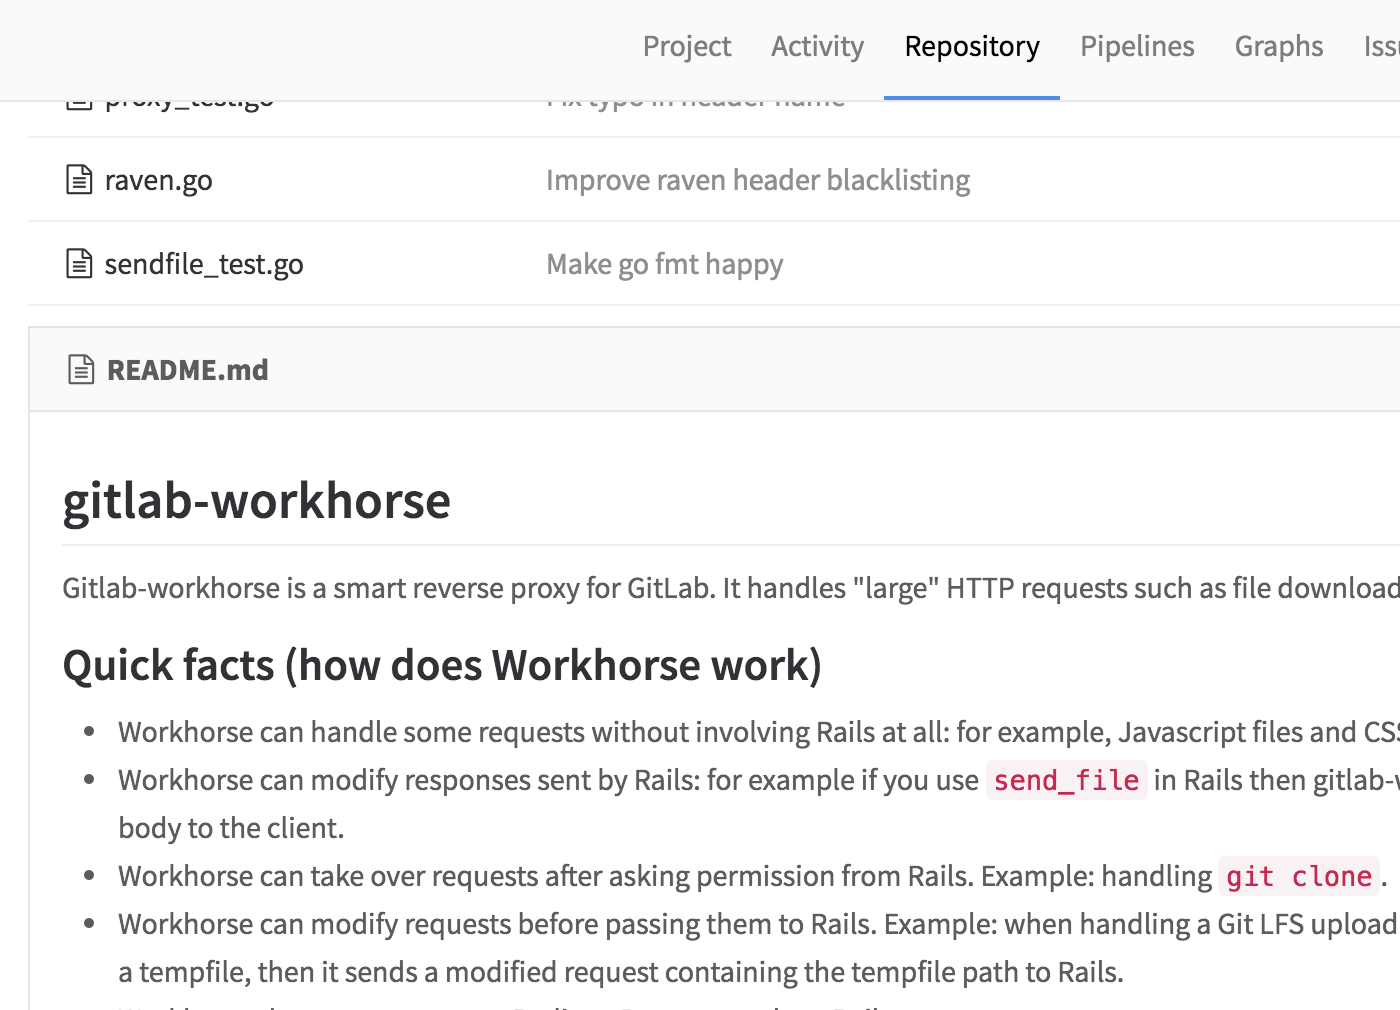
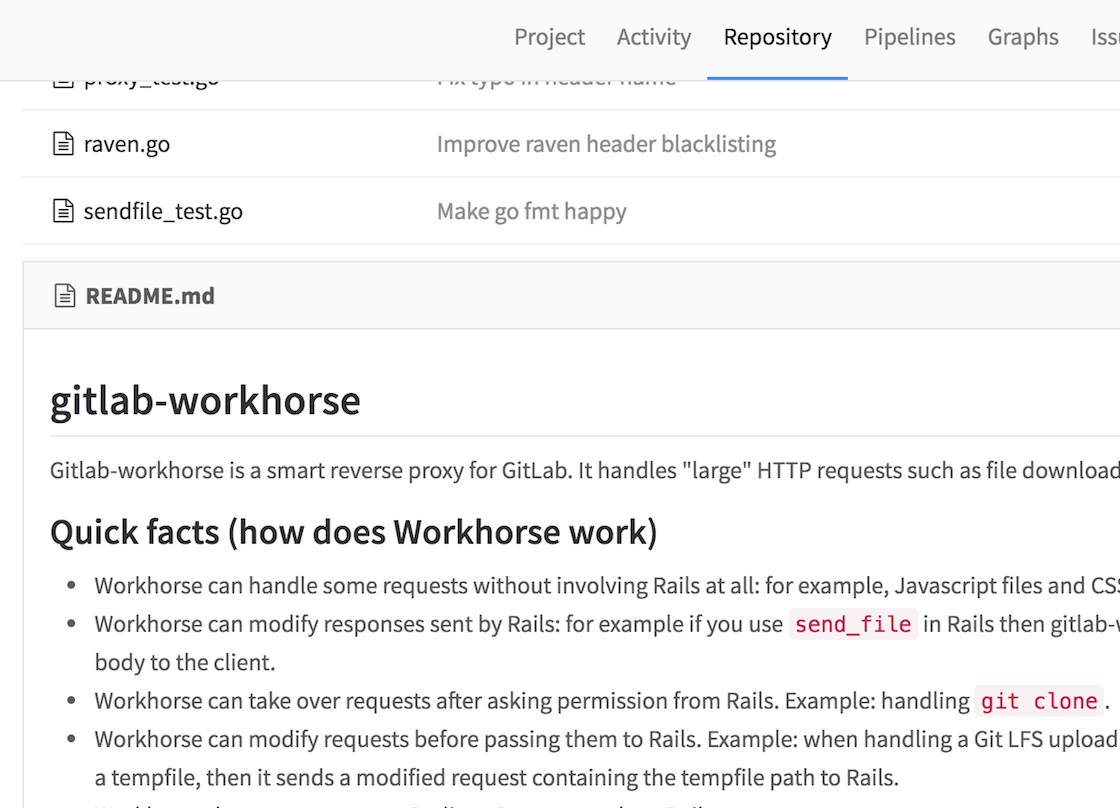
サイズ調整

diff --git a/gitlabstudy2/index.html b/gitlabstudy2/index.html
@@ -51,11 +51,10 @@
               <section data-markdown="slides/funcissue01.md"></section>
               <section data-markdown="slides/funcissue02.md"></section>
               <section data-markdown="slides/funcissue03.md"></section>
-              <section data-markdown="slides/funcissue04.md"></section>
 
               <section data-markdown="slides/funcgroup01.md"></section>
-              <section data-markdown="slides/funcgroup01.md"></section>
-              <section data-markdown="slides/funcgroup01.md"></section>
+              <section data-markdown="slides/funcgroup02.md"></section>
+              <section data-markdown="slides/funcgroup03.md"></section>
 
               <section data-markdown="slides/funcmark01.md"></section>
               <section data-markdown="slides/funcmark02.md"></section>

diff --git a/gitlabstudy2/slides/whatsgitlab06.md b/gitlabstudy2/slides/whatsgitlab06.md
@@ -2,9 +2,10 @@
 
 利用形態を選べます。
 
-- クラウド版 GitLab.com `無償`（有償サポートも有り）
-  - プライベートリポジトリ有り！ １プロジェクト10GBまで！
-- オンプレミス GitLab CE(Community Edition) OSS `無償`
-- オンプレミス GitLab EE(Enterprise Edition) 機能強化 `有償`
+- クラウド GitLab.com `無償`（有償サポート有）
+  - プライベートリポジトリ有り！
+  - １プロジェクト10GBまで！
+- オンプレ GitLab CE(Community Edition) OSS `無償`
+- オンプレ GitLab EE(Enterprise Edition) 機能強化 `有償`
 
 ### とにかく使ってみたい人はGitLab.comを利用してみてください

diff --git a/gitlabstudy2/slides/funcissue03.md b/gitlabstudy2/slides/funcissue03.md
@@ -1,4 +1,10 @@
 #### Issue Tracking System
-- 課題について議論することができる
 
-![Issue Tracking System Community](./resources/issuescomment.png)
+課題管理だけに使うのは勿体無い
+
+- ソフトウェアのバグレポート
+- 作者に相談したいこと、聞きたいこと
+- 今後、実施する予定のタスクの書き出し
+- 飲み会の場所決め
+
+プロジェクト活動などでは不確定な要素や不安ごと書き出していき、議論する場を設ければ、自然と目を逸らしていた課題に全員が向き合えるようになります。

diff --git a/gitlabstudy2/slides/funcmark03.md b/gitlabstudy2/slides/funcmark03.md
@@ -1,6 +1,6 @@
 #### Markdown
 
-先ほどの`markdown documents inside the repository`
+- 先ほどの`markdown documents inside the repository`
 
-markdownファイル(.md)をリポジトリに入れたらマークアップで表現してくれる
+- markdownファイル(.md)をリポジトリに入れたらマークアップで表現してくれる
 ![repository in markdown](./resources/reposmarkdown.png)

diff --git a/gitlabstudy2/slides/funcissue02.md b/gitlabstudy2/slides/funcissue02.md
@@ -1,4 +1,4 @@
 #### Issue Tracking System
-- バグや機能提案や要望等の管理を行う
+- 課題について議論することができる
 
-![Issue Tracking System](./resources/issues.png)
+![Issue Tracking System Community](./resources/issuescomment.png)

diff --git a/gitlabstudy2/slides/agenda04.md b/gitlabstudy2/slides/agenda04.md
@@ -2,4 +2,4 @@
 - GitLab とは?
 - 主要となる機能の紹介
 - GitHub との違い
-- `サービス版の GitLab.com と OSS 版の GitLab CE との違い`
+- **サービス版の GitLab.com と OSS 版の GitLab CE との違い**

diff --git a/gitlabstudy2/slides/agenda02.md b/gitlabstudy2/slides/agenda02.md
@@ -1,5 +1,5 @@
 アジェンダ
 - GitLab とは?
-- `主要となる機能の紹介`
+- **主要となる機能の紹介**
 - GitHub との違い
 - サービス版の GitLab.com と OSS 版の GitLab CE との違い

diff --git a/gitlabstudy2/slides/agenda03.md b/gitlabstudy2/slides/agenda03.md
@@ -1,5 +1,5 @@
 アジェンダ
 - GitLab とは?
 - 主要となる機能の紹介
-- `GitHub との違い`
+- **GitHub との違い**
 - サービス版の GitLab.com と OSS 版の GitLab CE との違い

diff --git a/gitlabstudy2/slides/funcissue01.md b/gitlabstudy2/slides/funcissue01.md
@@ -1,0 +1,4 @@
+#### Issue Tracking System
+- バグや機能提案や要望等の管理を行う
+
+![Issue Tracking System](./resources/issues.png)
